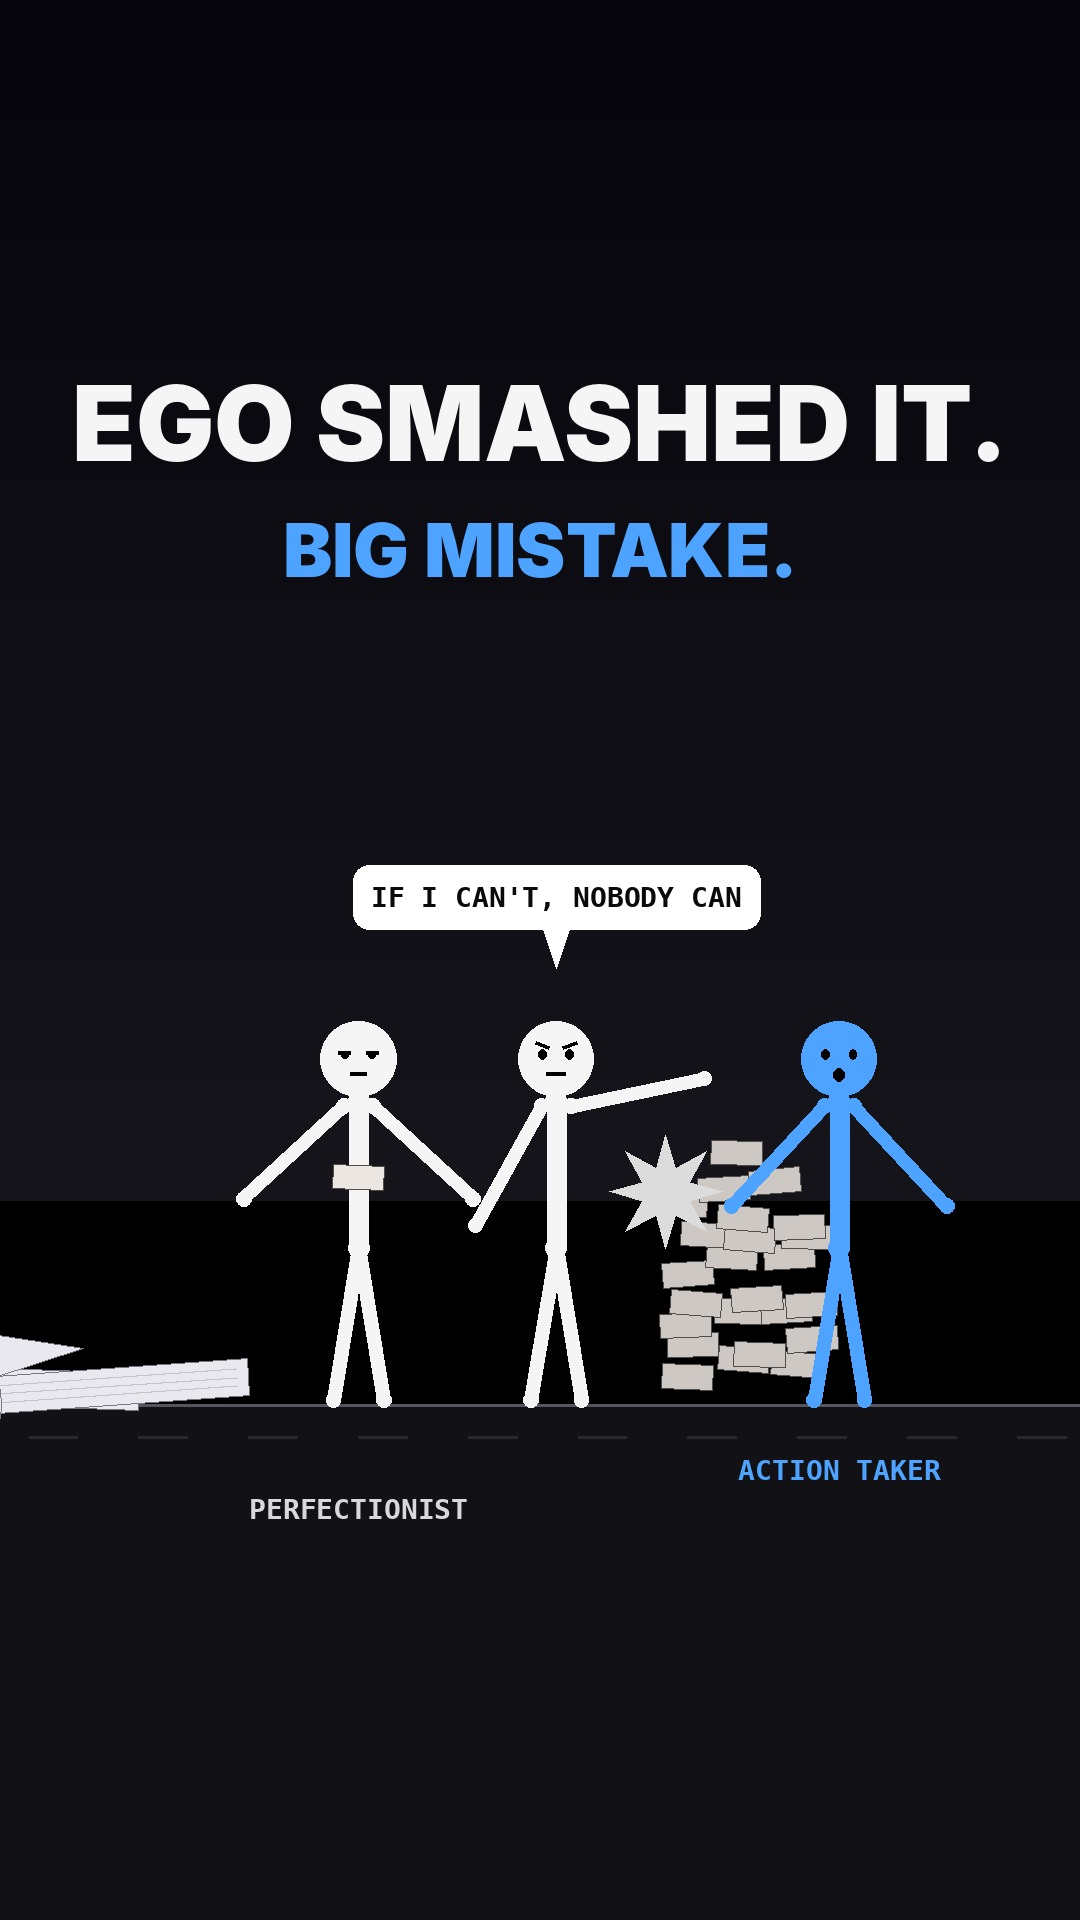
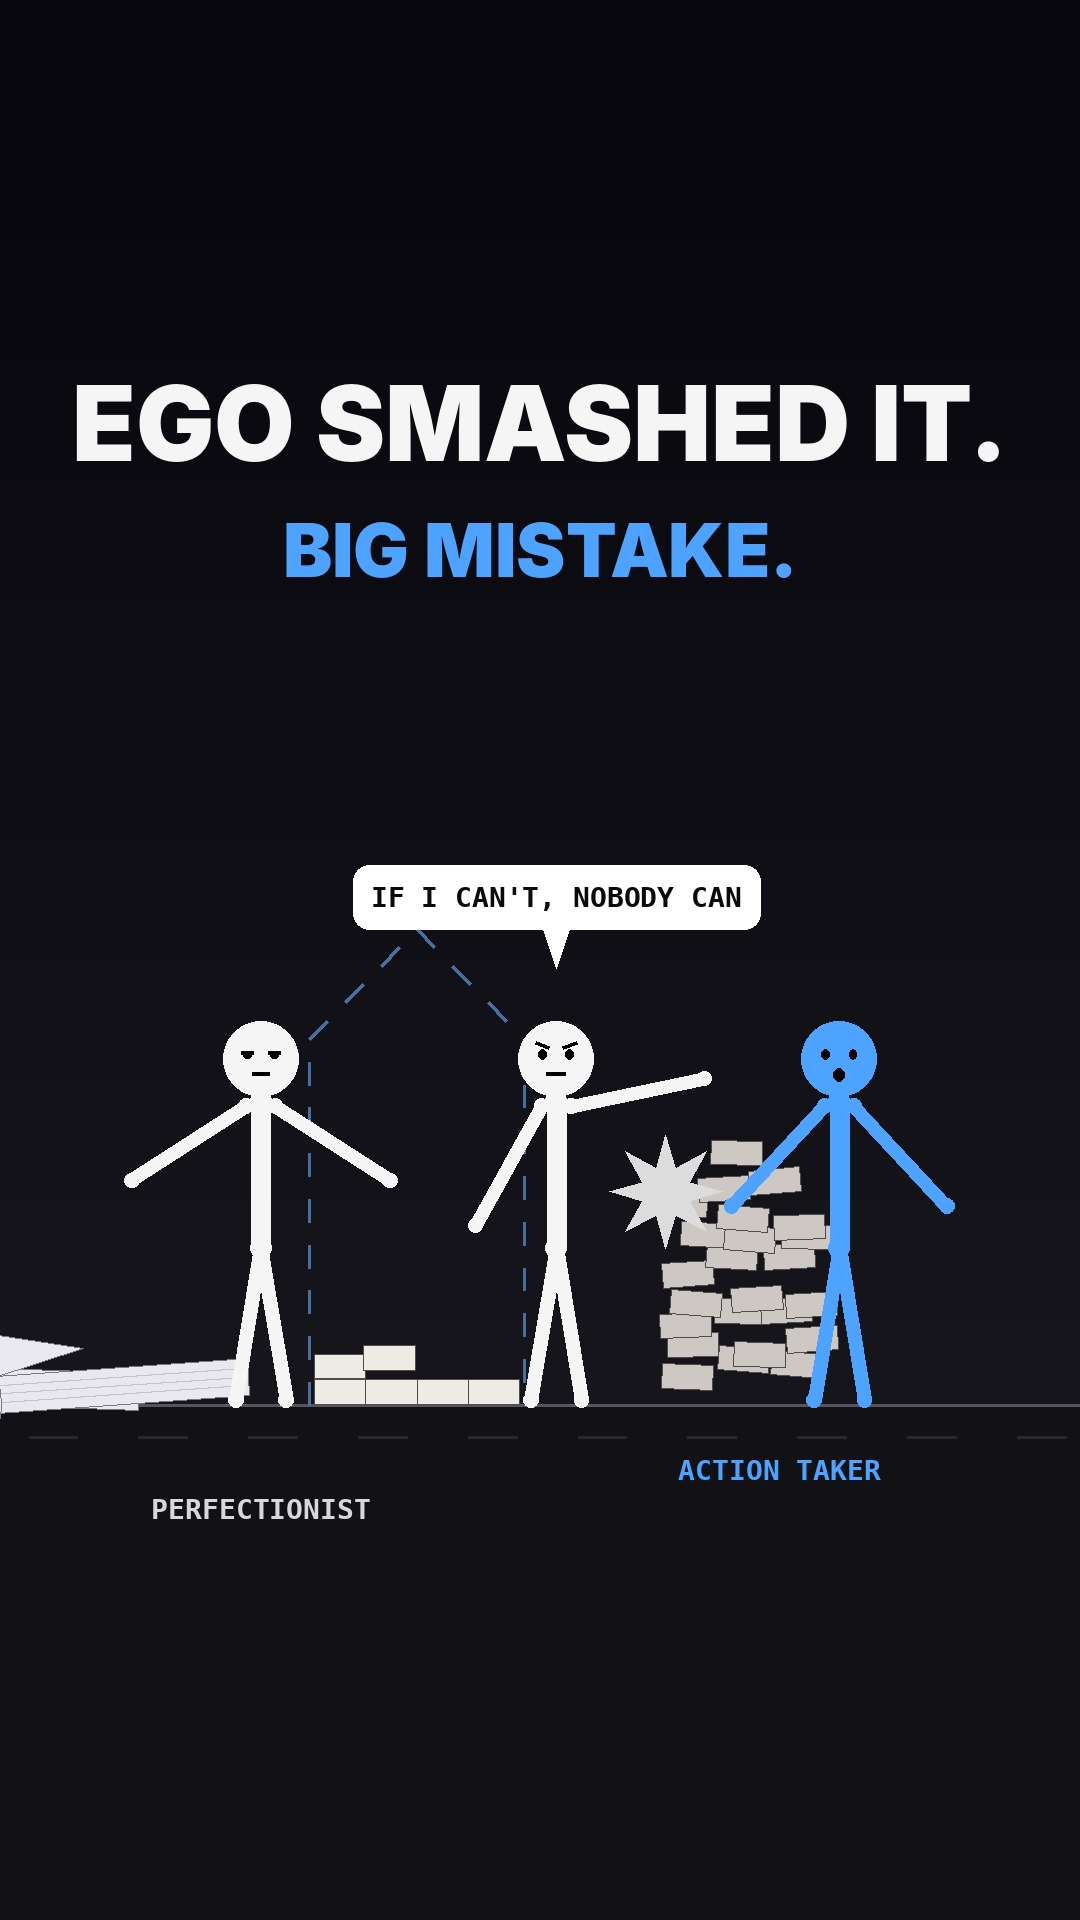
3 builders: copertina e didascalia aggiornate
Claude-Session: https://claude.ai/code/session_016kxKsF6QmhTmDFmJF6Dm4z

Changed region(s): [[0.0, 0.5312, 1.0, 0.7812], [0.1528, 0.7812, 0.4278, 0.8125]]

diff --git a/DA-PUBBLICARE.md b/DA-PUBBLICARE.md
@@ -21,7 +21,7 @@ Ego built the most beautiful palace. No foundation.
 When it fell, he smashed Action Taker's house too.
 
 Action Taker picked up the pieces and built something better.
-Perfectionist? Still choosing the first brick.
+Perfectionist laid 12 perfect bricks. Not even halfway.
 
 Done beats perfect. Every time.
 
